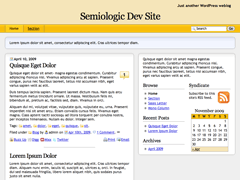
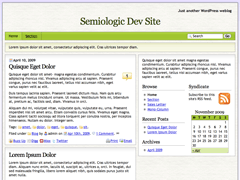
update screenshots + change default skin
git-svn-id: file:///Users/michaelkoepke/svn/semiologic@3260 6c9c31c4-cb3d-4424-af3d-876279169c7e

diff --git a/themes/sem-reloaded/trunk/inc/install.php b/themes/sem-reloaded/trunk/inc/install.php
@@ -6,7 +6,7 @@
 #
 
 # Skin, layout, font
-$sem_options['active_skin'] = 'copywriter-gold';
+$sem_options['active_skin'] = 'classy-olive';
 $sem_options['active_layout'] = 'mts';
 $sem_options['active_font'] = '';
 
